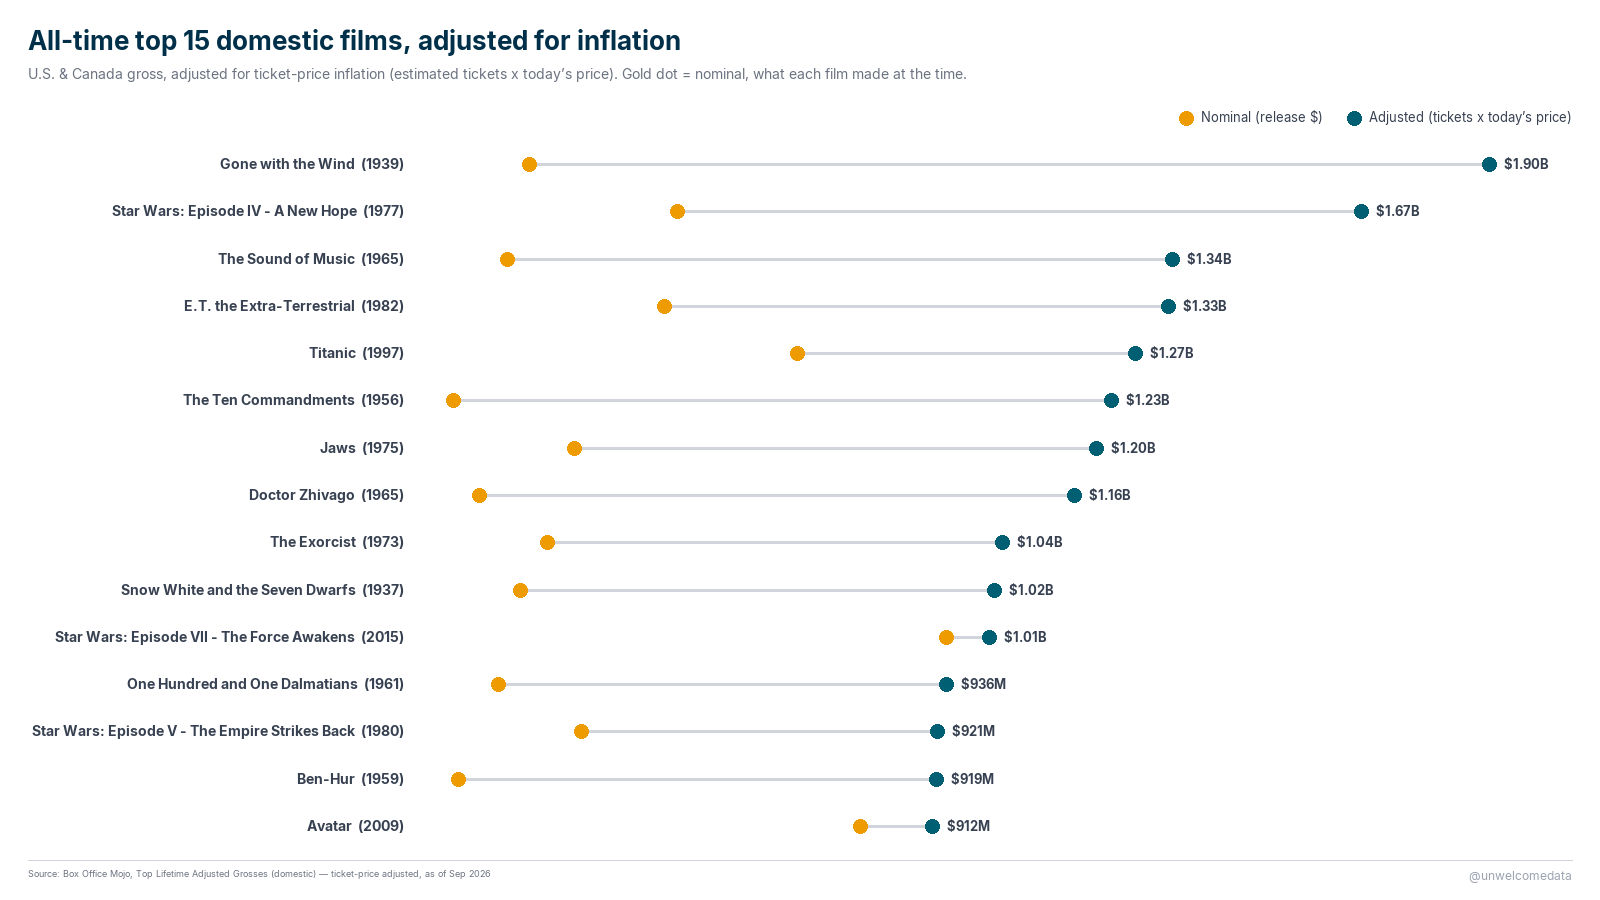
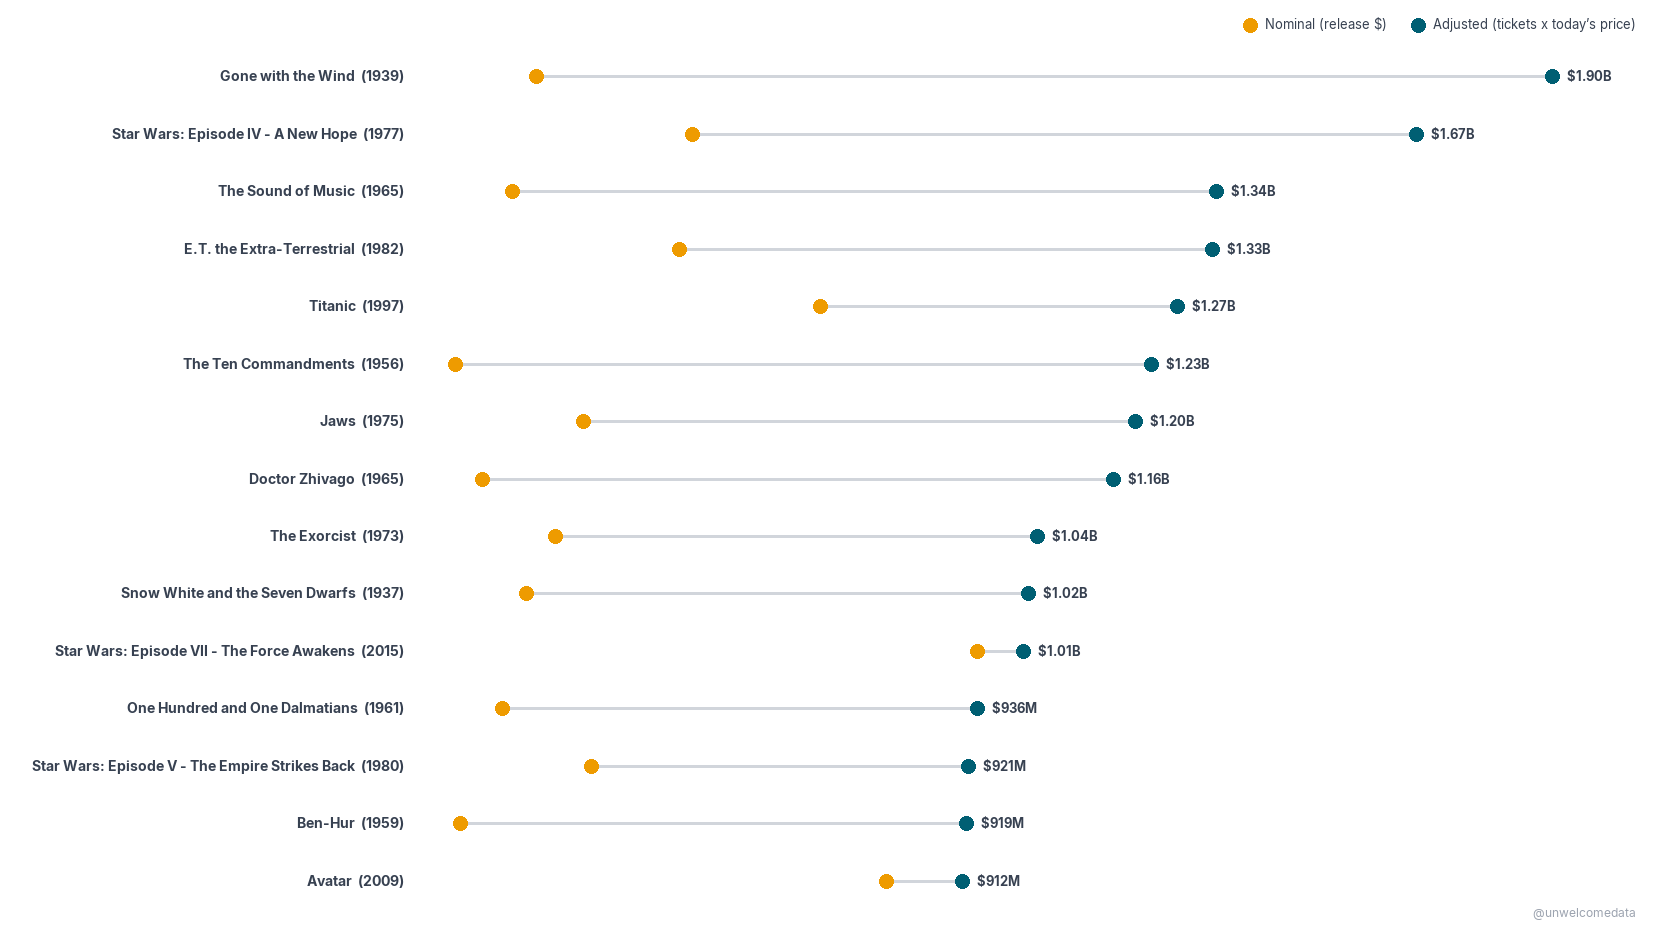
docs: web-optimized charts + wider column + click-to-zoom
docs/ charts are now the web renders (no title/subtitle/source chrome, larger
data, watermark only). assets/css/style.scss widens the Cayman column; README
wraps each chart in a click-to-zoom link and keeps the nominal/admissions basis
and the 'older titles understated' caveat that lived in the chart subtitles.

diff --git a/assets/css/style.scss b/assets/css/style.scss
@@ -1,0 +1,29 @@
+---
+---
+
+@import "{{ site.theme }}";
+
+/* ------------------------------------------------------------------ *
+ * @unwelcomedata — shared Cayman overrides (standard across projects)
+ *   1. Widen the content column so charts read without zooming. Stock
+ *      Cayman caps at 64rem with 6rem side padding (~832px usable on
+ *      desktop); we widen it and trim padding at the large breakpoint.
+ *      Mobile/tablet breakpoints are left as the theme ships them.
+ *   2. Let a chart image act as a click-to-open link to the full-res PNG.
+ * ------------------------------------------------------------------ */
+
+@media screen and (min-width: 64em) {
+  .main-content {
+    max-width: 80rem;      /* was 64rem (~1024px) -> ~1280px */
+    padding: 2rem 4rem;    /* was 2rem 6rem -> reclaim 2rem each side */
+  }
+}
+
+.main-content img {
+  max-width: 100%;
+  height: auto;
+}
+.main-content a > img {
+  display: block;
+  margin: 0 auto;
+}

diff --git a/README.md b/README.md
@@ -31,13 +31,15 @@ part.
 
 ---
 
+_Click any chart to open it at full resolution._
+
 ## 1. Hollywood's biggest films make most of their money abroad
 
 Top 15 U.S.-produced films by worldwide gross, ordered by the share earned
 abroad. Teal = rest of world, gold = home (U.S. & Canada) — the teal segment
 grows for the more internationally-dependent films.
 
-![Home vs abroad, top US films](docs/02_worldwide_domestic_vs_international.png)
+[![Home vs abroad, top US films](docs/02_worldwide_domestic_vs_international.png)](docs/02_worldwide_domestic_vs_international.png)
 
 ## 2. The biggest *domestic* films, adjusted for inflation
 
@@ -47,15 +49,17 @@ accounted for, who sold the most tickets? This uses Box Office Mojo's adjustment
 **admissions** ranking. The gold dot is what each film actually made at the time
 (nominal); the connector shows how far the adjustment moves it.
 
-![Domestic gross, adjusted vs nominal](docs/01_domestic_adjusted_vs_nominal.png)
+[![Domestic gross, adjusted vs nominal](docs/01_domestic_adjusted_vs_nominal.png)](docs/01_domestic_adjusted_vs_nominal.png)
 
 ## 3. The foreign-language films that broke into the U.S.
 
 Which non-English-language films earned the most in the U.S. & Canada, in nominal
-dollars. Country of origin is under each title — the list is more diverse than
-you'd guess (Hong Kong, Italy, Japan, China, South Korea, Mexico).
+(year-of-release) dollars — there's no reliable admissions adjustment for this
+list, so older titles are modestly understated. Country of origin is under each
+title — the list is more diverse than you'd guess (Hong Kong, Italy, Japan,
+China, South Korea, Mexico).
 
-![Top foreign-language films by US box office](docs/03_foreign_language_us_gross.png)
+[![Top foreign-language films by US box office](docs/03_foreign_language_us_gross.png)](docs/03_foreign_language_us_gross.png)
 
 ---
 
